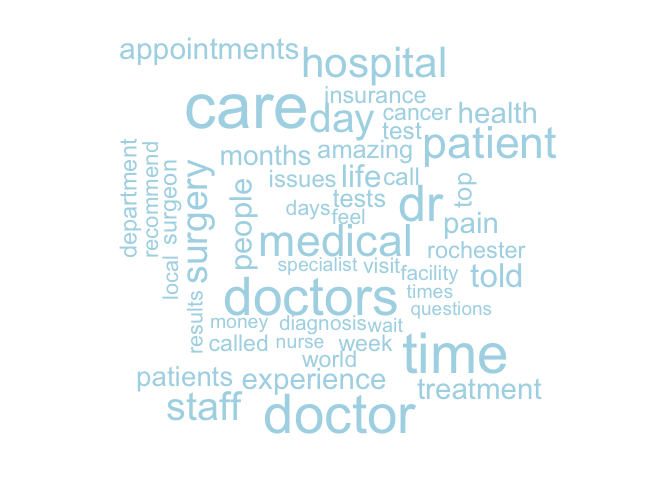
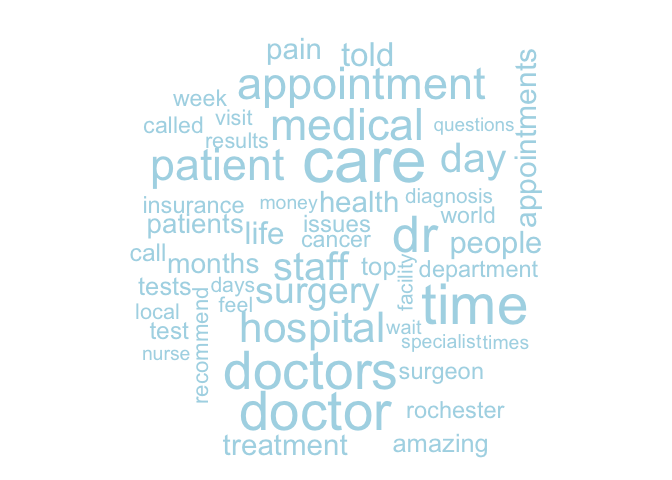
push again

Changed region(s): [[0.1562, 0.0625, 0.8438, 0.9688]]

diff --git a/Mayo-Clinic-Yelp-Review-Text-Analysis.md b/Mayo-Clinic-Yelp-Review-Text-Analysis.md
@@ -2,60 +2,50 @@ Mayo Clinic Yelp Review Text Analysis
 ================
 RexManglicmot
 
--   <a href="#status-continuing-working-document"
-    id="toc-status-continuing-working-document">Status: Continuing Working
-    Document</a>
--   <a href="#introduction" id="toc-introduction">Introduction</a>
--   <a href="#webscraping-yelp-data"
-    id="toc-webscraping-yelp-data">Webscraping Yelp Data</a>
--   <a href="#loading-the-libraries" id="toc-loading-the-libraries">Loading
-    the Libraries</a>
--   <a href="#loading-the-data" id="toc-loading-the-data">Loading the
-    Data</a>
--   <a href="#cleaning-the-data" id="toc-cleaning-the-data">Cleaning the
-    Data</a>
--   <a href="#exploratory-data-analysis"
-    id="toc-exploratory-data-analysis">Exploratory Data Analysis</a>
--   <a href="#column-charts-and-wordclouds"
-    id="toc-column-charts-and-wordclouds">Column Charts and WordClouds</a>
--   <a href="#sentiment-positive-and-negative-words"
-    id="toc-sentiment-positive-and-negative-words">Sentiment: Positive and
-    Negative Words</a>
-    -   <a href="#appplications" id="toc-appplications">Appplications</a>
-    -   <a href="#pros" id="toc-pros">Pros</a>
-    -   <a href="#cons" id="toc-cons">Cons</a>
--   <a href="#limitations" id="toc-limitations">Limitations</a>
--   <a href="#conclusions" id="toc-conclusions">Conclusions</a>
--   <a href="#appendix" id="toc-appendix">Appendix</a>
--   <a href="#inspiration-for-this-project"
-    id="toc-inspiration-for-this-project">Inspiration for this project</a>
+- [Status: Continuing Working
+  Document](#status-continuing-working-document)
+- [Introduction](#introduction)
+- [Webscraping Yelp Data](#webscraping-yelp-data)
+- [Loading the Libraries](#loading-the-libraries)
+- [Loading the Data](#loading-the-data)
+- [Cleaning the Data](#cleaning-the-data)
+- [Exploratory Data Analysis](#exploratory-data-analysis)
+- [Column Charts and WordClouds](#column-charts-and-wordclouds)
+- [Sentiment: Positive and Negative
+  Words](#sentiment-positive-and-negative-words)
+  - [Appplications](#appplications)
+  - [Pros](#pros)
+  - [Cons](#cons)
+- [Limitations](#limitations)
+- [Conclusions](#conclusions)
+- [Appendix](#appendix)
+- [Inspiration for this project](#inspiration-for-this-project)
 
 ## Status: Continuing Working Document
 
 Hi everyone. I’m continuing building my data analysis and R skills. As
 such, I would love feedback to better improve this project via
 <rexmanglicmot@gmail.com>. Any mistakes and misrepresentation of the
-data are my own.
+data are my own. Thank you!
 
 Things Need to Do/Questions:
 
--   Import and adjust dictionaries + describe and cite them.
--   Fix overall grammar
--   Need to List of the metrics in US News for evaluating hospitals and
-    pick up where they left off or, pick up on what is missing in their
-    analyses.
--   Need to find code to align left on the text column in the cleaning
-    section
--   Learn how to create a US heat map code in the EDA section
--   look for a dictionary that has Male and Female first names and run
-    it against data to see how many of each gender is present in the
-    reviews
--   look for code how to highlight certain columns in a barchart (i.e.,
-    ratings barchart below)
--   Create and cite sources of the benefits of wordclouds
--   Properly center the US News pic on git_document (somehow works fine
-    in RStudio html document?)
--   Add more dictionaries
+- Import and adjust dictionaries + describe and cite them.
+- Fix overall grammar
+- Need to List of the metrics in US News for evaluating hospitals and
+  pick up where they left off or, pick up on what is missing in their
+  analyses.
+- Need to find code to align left on the text column in the cleaning
+  section
+- Learn how to create a US heat map code in the EDA section
+- look for a dictionary that has Male and Female first names and run it
+  against data to see how many of each gender is present in the reviews
+- look for code how to highlight certain columns in a barchart (i.e.,
+  ratings barchart below)
+- Create and cite sources of the benefits of wordclouds
+- Properly center the US News pic on git_document (somehow works fine in
+  RStudio html document?)
+- Add more dictionaries
 
 ## Introduction
 
@@ -717,9 +707,6 @@ wordcloud(
 )
 ```
 
-    ## Warning in wordcloud(words = data7$word, freq = data7$n, max.words = 50, :
-    ## appointment could not be fit on page. It will not be plotted.
-
 ![](Mayo-Clinic-Yelp-Review-Text-Analysis_files/figure-gfm/unnamed-chunk-23-1.png)<!-- -->
 
 The wordcloud above shows the overall patient word count from the 228
@@ -773,17 +760,11 @@ wordcloud(
   colors = 'red')
 ```
 
-    ## Warning in wordcloud(words = data_A1T$word, freq = data_A1T$n, max.words = 50, :
-    ## told could not be fit on page. It will not be plotted.
+    ## Warning in wordcloud(words = data_A1T$word, freq = data_A1T$n, max.words = 50,
+    ## : experience could not be fit on page. It will not be plotted.
 
-    ## Warning in wordcloud(words = data_A1T$word, freq = data_A1T$n, max.words = 50, :
-    ## doctor could not be fit on page. It will not be plotted.
-
-    ## Warning in wordcloud(words = data_A1T$word, freq = data_A1T$n, max.words = 50, :
-    ## surgeon could not be fit on page. It will not be plotted.
-
-    ## Warning in wordcloud(words = data_A1T$word, freq = data_A1T$n, max.words = 50, :
-    ## patients could not be fit on page. It will not be plotted.
+    ## Warning in wordcloud(words = data_A1T$word, freq = data_A1T$n, max.words = 50,
+    ## : appointment could not be fit on page. It will not be plotted.
 
 ![](Mayo-Clinic-Yelp-Review-Text-Analysis_files/figure-gfm/unnamed-chunk-25-1.png)<!-- -->
 
@@ -817,17 +798,17 @@ large volume of text and to create a generalization of such.
 
 ### Appplications
 
--   Customer feedback. Understanding user review comments on a web
-    platform (i.e., Twitter)
--   Analyze survey responses
--   Competitor research
+- Customer feedback. Understanding user review comments on a web
+  platform (i.e., Twitter)
+- Analyze survey responses
+- Competitor research
 
 ### Pros
 
--   Diminish the risk of bias from a person investigating comments. As
-    such, it diminish personal perceptions of the data and takes away
-    the person’s mood and other incalculable biases.
--   Quick to implement.
+- Diminish the risk of bias from a person investigating comments. As
+  such, it diminish personal perceptions of the data and takes away the
+  person’s mood and other incalculable biases.
+- Quick to implement.
 
 ### Cons
 
@@ -843,7 +824,15 @@ library(textdata)
 sentiment_data <- data6 %>%
   #used the nrc dictionary
   inner_join(get_sentiments('nrc'))
+```
 
+    ## Warning in inner_join(., get_sentiments("nrc")): Detected an unexpected many-to-many relationship between `x` and `y`.
+    ## ℹ Row 4 of `x` matches multiple rows in `y`.
+    ## ℹ Row 12130 of `y` matches multiple rows in `x`.
+    ## ℹ If a many-to-many relationship is expected, set `relationship =
+    ##   "many-to-many"` to silence this warning.
+
+``` r
 sentiment_data_nrc <- sentiment_data %>%
   count(sentiment) %>%
   mutate(sentiment2 = fct_reorder(sentiment, n))
@@ -863,11 +852,11 @@ Interesting.
 
 Insights:
 
--   Based on the NRC dictionary, majority of the patients expressed the
-    sentiment “positive” in their reviews, which had the most counts,
-    followed by trust.
--   The following four sentiments thereafter, as a group, be categorized
-    as ambiguous and negative.
+- Based on the NRC dictionary, majority of the patients expressed the
+  sentiment “positive” in their reviews, which had the most counts,
+  followed by trust.
+- The following four sentiments thereafter, as a group, be categorized
+  as ambiguous and negative.
 
 Interesting. What does this tell us? There is a mix big of emotions from
 patients. It’s best to try another dictionary. So, let’s try ‘Loughran’
@@ -897,11 +886,11 @@ Even more interesting.
 
 Insights:
 
--   Using this dictionary, we see that many of the reviews a categorized
-    as negative.
--   There is a 2x count of negative vs positive reviews.
--   Uncertainty, litigious, constraining categories could further be
-    included as negative.
+- Using this dictionary, we see that many of the reviews a categorized
+  as negative.
+- There is a 2x count of negative vs positive reviews.
+- Uncertainty, litigious, constraining categories could further be
+  included as negative.
 
 ## Limitations
 
